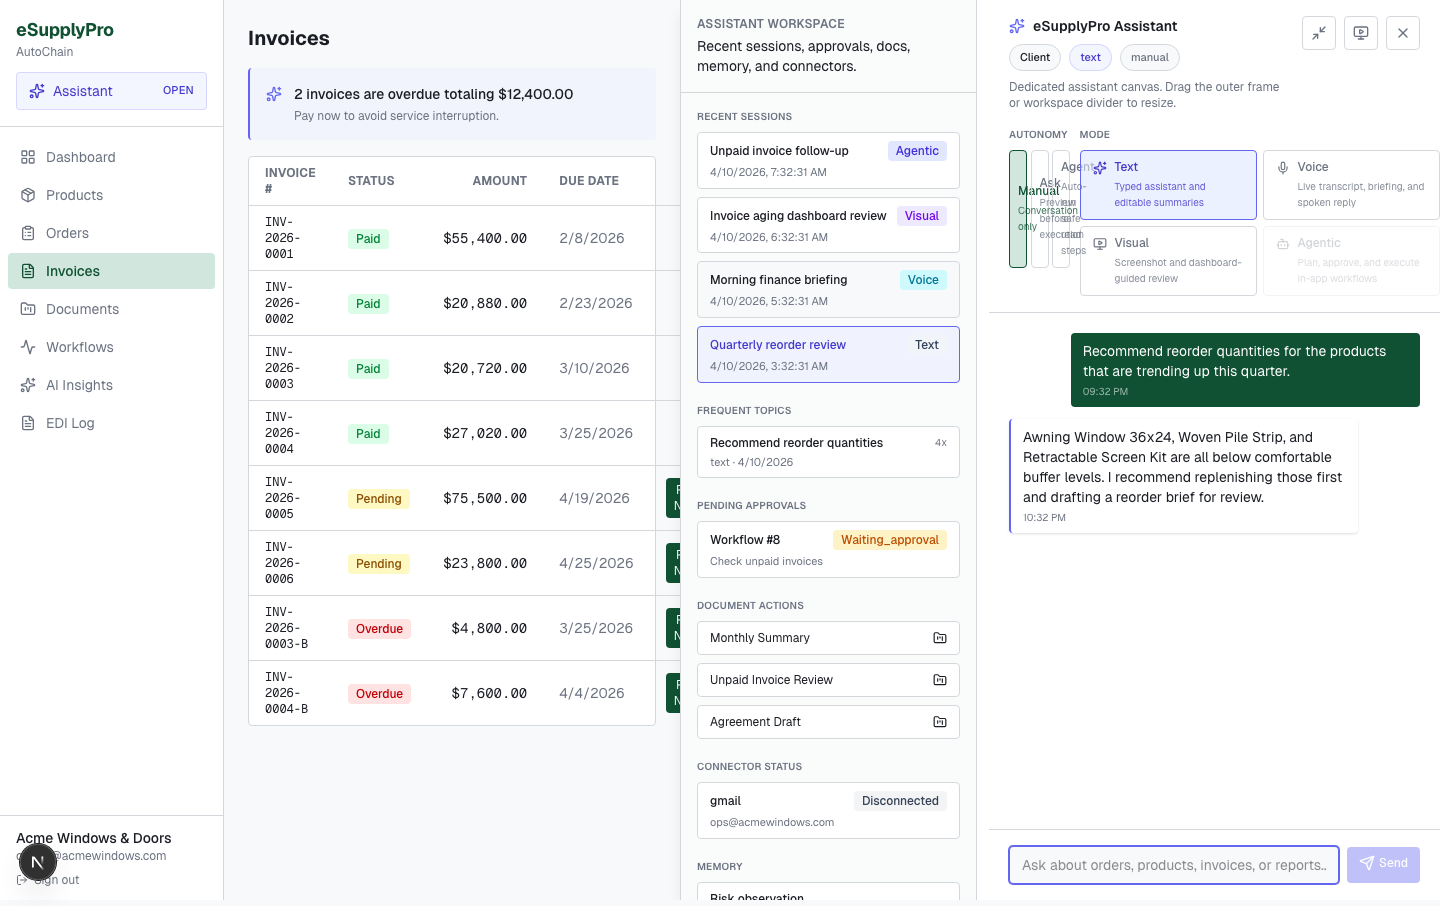
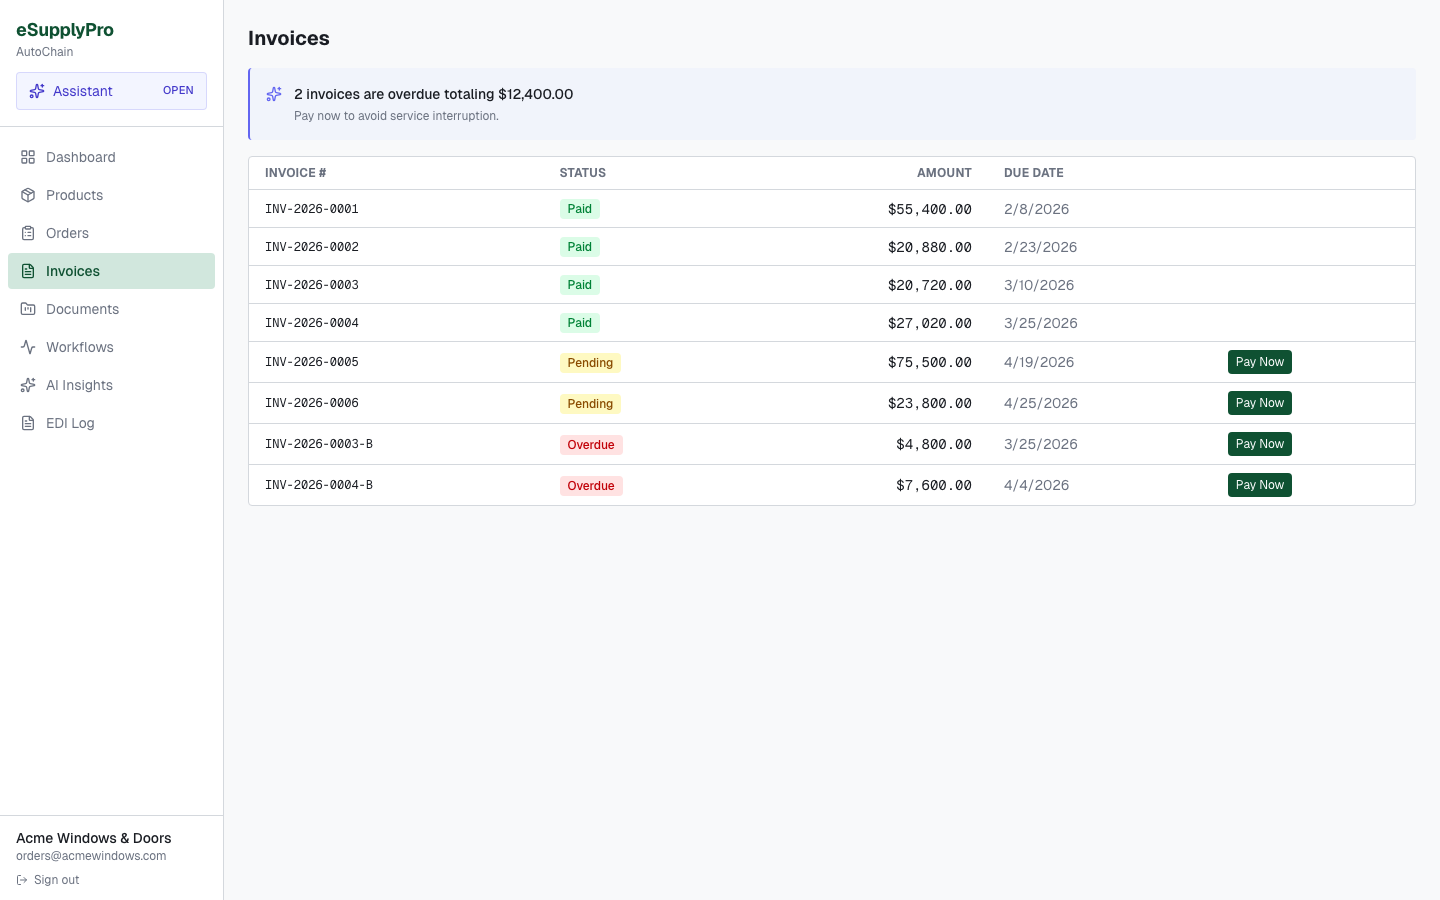
docs: refresh README screenshots

diff --git a/README.md b/README.md
@@ -6,101 +6,191 @@ Built as a TypeScript monorepo with Next.js, Fastify, SQLite, and Drizzle ORM.
 
 ---
 
-## Customer Portal
+## Product Tour
 
-Customers manage orders, track deliveries, review invoices, and interact with an AI assistant that surfaces insights from their supply chain data.
+The platform is split across three role-based portals. The assistant is persistent in every view, so the desktop captures work better as linked thumbnails than full-width inline images.
 
-### Dashboard
-Overview of orders, outstanding balances, delivery tracking, and AI-generated insights with a visual analytics studio.
+Click any thumbnail to open the full-size screenshot.
 
-![Customer Dashboard](docs/screenshots/02-customer-dashboard.png)
+### Customer Portal
 
-### Delivery Tracker & Visual Insights
-Real-time freight status with ETA tracking. The visual insights studio generates charts from natural language prompts — savings analysis, supplier mix, freight activity.
+Customers manage orders, track deliveries, review invoices, and work alongside an AI assistant that surfaces supply chain insights.
 
-![Delivery & Insights](docs/screenshots/03-delivery-insights.png)
+Core areas: dashboard, delivery tracking, visual insights, orders, invoices, products, documents, workflows, AI insights, and EDI monitoring.
 
-### Orders
-Full order lifecycle from draft to delivery. AI summary highlights pending shipments and order totals at a glance.
+<details>
+<summary><strong>Open customer screenshots</strong></summary>
 
-![Orders](docs/screenshots/04-orders.png)
+<table>
+  <tr>
+    <td width="50%" valign="top">
+      <a href="docs/screenshots/01-login.png">
+        <img src="docs/screenshots/01-login.png" alt="Login" width="100%" />
+      </a><br />
+      <strong>Login</strong><br />
+      Demo sign-in entry point for all three roles.
+    </td>
+    <td width="50%" valign="top">
+      <a href="docs/screenshots/02-customer-dashboard.png">
+        <img src="docs/screenshots/02-customer-dashboard.png" alt="Customer Dashboard" width="100%" />
+      </a><br />
+      <strong>Dashboard</strong><br />
+      Orders, balances, delivery tracking, and analytics studio.
+    </td>
+  </tr>
+  <tr>
+    <td width="50%" valign="top">
+      <a href="docs/screenshots/03-delivery-insights.png">
+        <img src="docs/screenshots/03-delivery-insights.png" alt="Delivery Tracker and Visual Insights" width="100%" />
+      </a><br />
+      <strong>Delivery Tracker &amp; Visual Insights</strong><br />
+      ETA tracking and prompt-driven chart generation.
+    </td>
+    <td width="50%" valign="top">
+      <a href="docs/screenshots/04-orders.png">
+        <img src="docs/screenshots/04-orders.png" alt="Orders" width="100%" />
+      </a><br />
+      <strong>Orders</strong><br />
+      Draft-to-delivery order management with AI summaries.
+    </td>
+  </tr>
+  <tr>
+    <td width="50%" valign="top">
+      <a href="docs/screenshots/05-invoices.png">
+        <img src="docs/screenshots/05-invoices.png" alt="Invoices" width="100%" />
+      </a><br />
+      <strong>Invoices</strong><br />
+      Payment status, overdue alerts, and quick actions.
+    </td>
+    <td width="50%" valign="top">
+      <a href="docs/screenshots/06-products.png">
+        <img src="docs/screenshots/06-products.png" alt="Products" width="100%" />
+      </a><br />
+      <strong>Products</strong><br />
+      Catalog browsing with stock levels and pricing.
+    </td>
+  </tr>
+  <tr>
+    <td width="50%" valign="top">
+      <a href="docs/screenshots/07-documents.png">
+        <img src="docs/screenshots/07-documents.png" alt="Documents" width="100%" />
+      </a><br />
+      <strong>Documents</strong><br />
+      Versioned AI-generated reports, agreements, and briefs.
+    </td>
+    <td width="50%" valign="top">
+      <a href="docs/screenshots/08-workflows.png">
+        <img src="docs/screenshots/08-workflows.png" alt="Workflows" width="100%" />
+      </a><br />
+      <strong>Workflows</strong><br />
+      Approval-based automation with autonomous execution options.
+    </td>
+  </tr>
+  <tr>
+    <td width="50%" valign="top">
+      <a href="docs/screenshots/09-insights.png">
+        <img src="docs/screenshots/09-insights.png" alt="AI Insights" width="100%" />
+      </a><br />
+      <strong>AI Insights</strong><br />
+      Signals from order patterns, freight, aging, and inventory.
+    </td>
+    <td width="50%" valign="top">
+      <a href="docs/screenshots/10-edi.png">
+        <img src="docs/screenshots/10-edi.png" alt="EDI Log" width="100%" />
+      </a><br />
+      <strong>EDI Log</strong><br />
+      Purchase order, invoice, and shipping transaction history.
+    </td>
+  </tr>
+</table>
 
-### Invoices
-Invoice tracking with overdue alerts, payment status, and one-click payment actions.
+</details>
 
-![Invoices](docs/screenshots/05-invoices.png)
+### Vendor Portal
 
-### Products
-Product catalog with window, door, glass, hardware, and weatherstripping categories. Real-time inventory levels and pricing.
+Vendors handle inbound purchase orders, catalog availability, outbound freight, and invoice submission.
 
-![Products](docs/screenshots/06-products.png)
+Core areas: vendor dashboard, purchase orders and freight, catalog management, and invoice processing.
 
-### Documents
-AI-generated reports, agreements, and briefs linked to assistant sessions. Version-controlled with markdown content.
+<details>
+<summary><strong>Open vendor screenshots</strong></summary>
 
-![Documents](docs/screenshots/07-documents.png)
+<table>
+  <tr>
+    <td width="50%" valign="top">
+      <a href="docs/screenshots/11-vendor-dashboard.png">
+        <img src="docs/screenshots/11-vendor-dashboard.png" alt="Vendor Dashboard" width="100%" />
+      </a><br />
+      <strong>Vendor Dashboard</strong><br />
+      Reliability score, PO summary, and follow-up actions.
+    </td>
+    <td width="50%" valign="top">
+      <a href="docs/screenshots/12-vendor-purchase-orders.png">
+        <img src="docs/screenshots/12-vendor-purchase-orders.png" alt="Purchase Orders and Freight" width="100%" />
+      </a><br />
+      <strong>Purchase Orders &amp; Freight</strong><br />
+      Line items, carrier updates, and delivery tracking.
+    </td>
+  </tr>
+  <tr>
+    <td width="50%" valign="top">
+      <a href="docs/screenshots/13-vendor-catalog.png">
+        <img src="docs/screenshots/13-vendor-catalog.png" alt="Vendor Catalog" width="100%" />
+      </a><br />
+      <strong>Vendor Catalog</strong><br />
+      Lead times, MOQs, stock constraints, and availability controls.
+    </td>
+    <td width="50%" valign="top">
+      <a href="docs/screenshots/14-vendor-invoices.png">
+        <img src="docs/screenshots/14-vendor-invoices.png" alt="Vendor Invoices" width="100%" />
+      </a><br />
+      <strong>Vendor Invoices</strong><br />
+      PO-linked invoice workflow from pending to paid.
+    </td>
+  </tr>
+</table>
 
-### Workflows
-Multi-step workflow automation — invoice review, inventory reorder suggestions, agreement drafting. Approve, reject, or let the AI agent execute autonomously.
+</details>
 
-![Workflows](docs/screenshots/08-workflows.png)
+### Admin Portal
 
-### AI Insights
-Actionable intelligence surfaced from order patterns, invoice aging, freight lanes, and inventory levels.
+Platform administrators manage users, sessions, and cross-account visibility across the full system.
 
-![AI Insights](docs/screenshots/09-insights.png)
+Core areas: global dashboard, user management, and session monitoring.
 
-### EDI Log
-Electronic Data Interchange transaction log for purchase orders, invoices, and shipping notices.
+<details>
+<summary><strong>Open admin screenshots</strong></summary>
 
-![EDI Log](docs/screenshots/10-edi.png)
+<table>
+  <tr>
+    <td width="50%" valign="top">
+      <a href="docs/screenshots/15-admin-dashboard.png">
+        <img src="docs/screenshots/15-admin-dashboard.png" alt="Admin Dashboard" width="100%" />
+      </a><br />
+      <strong>Admin Dashboard</strong><br />
+      Revenue, order volume, active users, and cross-customer activity.
+    </td>
+    <td width="50%" valign="top">
+      <a href="docs/screenshots/16-admin-users.png">
+        <img src="docs/screenshots/16-admin-users.png" alt="Admin Users" width="100%" />
+      </a><br />
+      <strong>User Management</strong><br />
+      Role assignment, status control, and feature flags.
+    </td>
+  </tr>
+  <tr>
+    <td width="50%" valign="top">
+      <a href="docs/screenshots/17-admin-sessions.png">
+        <img src="docs/screenshots/17-admin-sessions.png" alt="Admin Sessions" width="100%" />
+      </a><br />
+      <strong>Session Management</strong><br />
+      Active sessions, IP addresses, user agents, and revocation.
+    </td>
+    <td width="50%"></td>
+  </tr>
+</table>
 
----
-
-## Vendor Portal
-
-Vendors manage inbound purchase orders, update catalog availability, track outbound shipments, and handle invoicing.
-
-### Vendor Dashboard
-Reliability score, active PO summary, recommended follow-up actions, and recent order activity.
-
-![Vendor Dashboard](docs/screenshots/11-vendor-dashboard.png)
-
-### Purchase Orders & Freight
-PO detail with line items, freight creation, carrier tracking, and delivery status updates.
-
-![Purchase Orders](docs/screenshots/12-vendor-purchase-orders.png)
-
-### Vendor Catalog
-Manage product availability, lead times, minimum order quantities, and stock constraints.
-
-![Vendor Catalog](docs/screenshots/13-vendor-catalog.png)
-
-### Vendor Invoices
-Submit and track invoices against purchase orders. Status workflow: pending, approved, disputed, paid.
-
-![Vendor Invoices](docs/screenshots/14-vendor-invoices.png)
-
----
-
-## Admin Portal
-
-Platform administrators manage all customers, users, sessions, and cross-account order visibility.
-
-### Admin Dashboard
-Aggregate metrics across all accounts — total revenue, order volume, active users, with a cross-customer order table.
-
-![Admin Dashboard](docs/screenshots/15-admin-dashboard.png)
-
-### User Management
-Manage all platform users across customer and vendor accounts. Role assignment, status control, and feature flags.
-
-![Admin Users](docs/screenshots/16-admin-users.png)
-
-### Session Management
-Active session monitoring with IP addresses, user agents, and revocation controls.
-
-![Admin Sessions](docs/screenshots/17-admin-sessions.png)
+</details>
 
 ---
 
